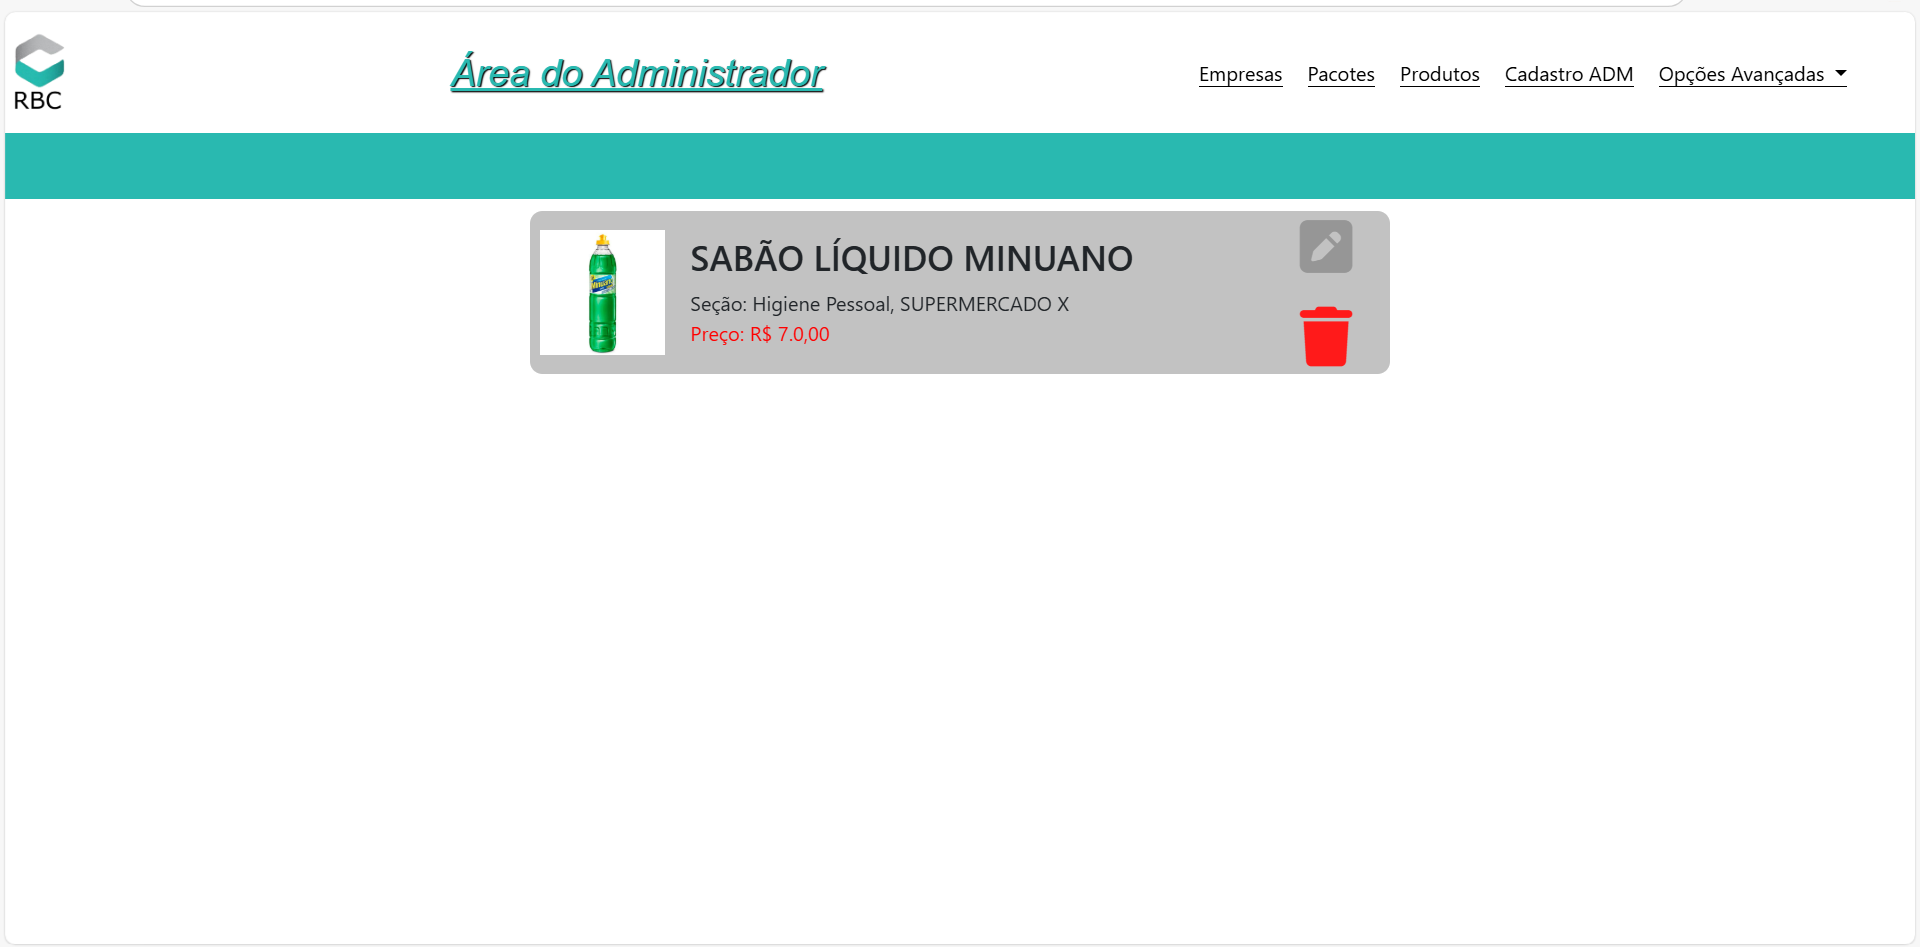
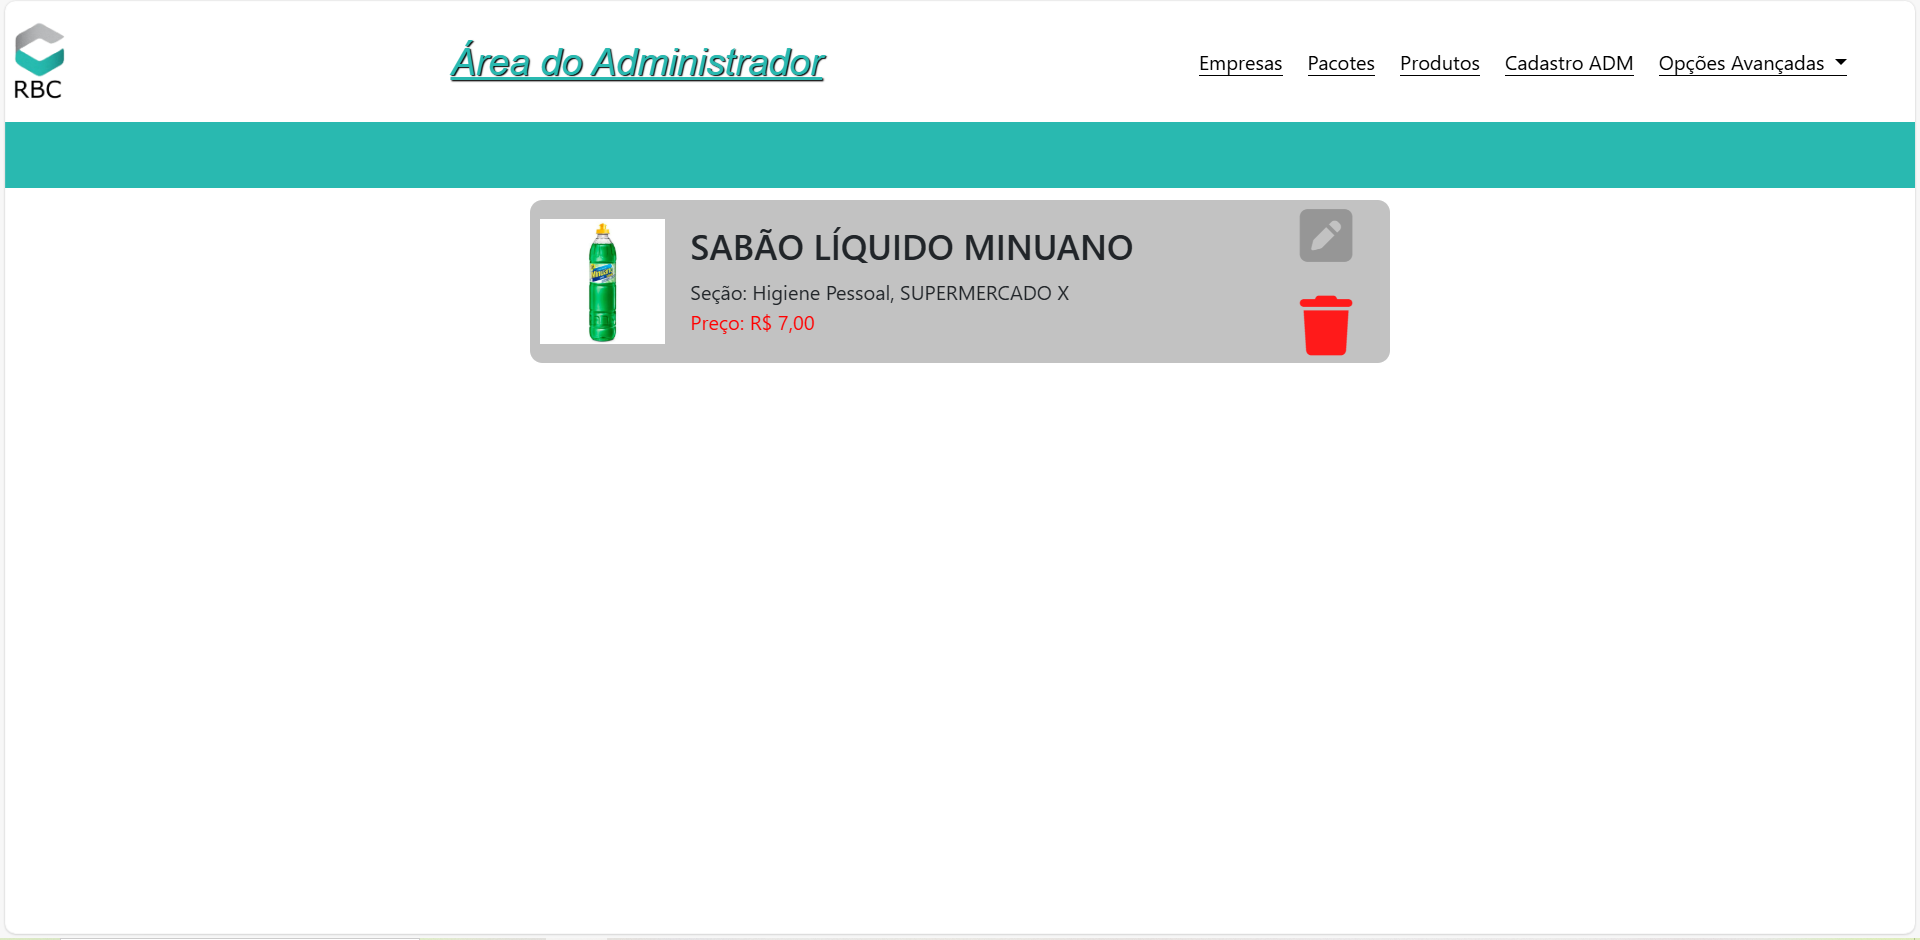
Update final readme

diff --git a/produto/templates/lista_produtos.html b/produto/templates/lista_produtos.html
@@ -14,7 +14,7 @@
                     <div class="dados">
                         <div class="h3">{{ produto.nome_produto }}</div>
                         <div class="sub-text">Seção: {{ produto.nome_secao }}</div>
-                        <div class="sub-text" style="color: red;">Preço: R$ {{ produto.menor_preco }} ~ R$ {{ produto.maior_preco }}</div>
+                        <div class="sub-text" style="color: red;">Preço: {{ produto.preco|floatformat:2|default:"0,00" }} ~ R$ {{ produto.preco|floatformat:2|default:"0,00" }}</div>
                     </div>
                 </div>
             </button>

diff --git a/produto/templates/lista_adm.html b/produto/templates/lista_adm.html
@@ -33,7 +33,7 @@
             <div class="dados">
                 <div class="h3">{{produto.nome_produto}}</div>
                 <div class="sub-text">Seção: {{produto.secao}}, {{produto.empresa}}</div>
-                <div class="sub-text" style="color: red;">Preço: R$ {{produto.preco}},00</div>
+                <div class="sub-text" style="color: red;">Preço: R$ {{ produto.preco|floatformat:2|default:"0,00" }}</div>
             </div>
             <!--Icone normal-->
             <div class="icone">

diff --git a/produto/templates/detalhe_prod.html b/produto/templates/detalhe_prod.html
@@ -12,7 +12,7 @@
             <div class="empresa">
                 <div><b>{{empresa.empresa}}</b></div>
                 <div>Endereço: {{empresa.empresa.rua}}, {{empresa.empresa.bairro}}, {{empresa.empresa.cidade}}</div>
-                <div style="color: red;"><b>Valor:  R$ {{empresa.preco}}</b></div>
+                <div style="color: red;"><b>Valor:  R$ {{ empresa.preco|floatformat:2|default:"0,00" }}</b></div>
             </div>
             {% endfor %}
         </div>

diff --git a/accounts/templates/home.html b/accounts/templates/home.html
@@ -19,7 +19,7 @@
             <div class="titulo">{{prod.nome_produto}}</div>
             <div>{{prod.empresa}}</div>
             <div>{{prod.empresa.rua}}, {{prod.empresa.bairro}}, {{prod.empresa.cidade}}.</div>
-            <p class="text-danger font-weight-bold">Preço: R$ {{prod.preco}},00</p>
+            <p class="text-danger font-weight-bold">Preço: R$ {{ prod.preco|floatformat:2|default:"0,00" }}</p>
           </div>
         </div>
       </div>

diff --git a/produto/views.py b/produto/views.py
@@ -133,8 +133,9 @@ def busca_prod(request):
 
     busca_bruta = request.GET.get('search', '')
     busca_tratada = trata_busca(busca_bruta)
+
     # Filtra os produtos com base na busca
-    '''data['produtos'] = produtos.objects.raw(
+    data['produtos'] = produtos.objects.filter(nome_produto__icontains=busca_tratada).raw(
         "SELECT produto.id, produto.nome_produto, secao.nome_secao, empresa.nome_empresa, "
         "MAX(preco.valor) AS maior_preco, MIN(preco.valor) AS menor_preco, produto.imagem "
         "FROM produto_produtos AS produto "
@@ -143,16 +144,15 @@ def busca_prod(request):
         "INNER JOIN produto_preco AS preco ON produto.preco_id = preco.id "
         "WHERE produto.status = 1 "
         "GROUP BY produto.nome_produto"
-    )'''
-    data['produtos'] = produtos.objects.filter(nome_produto__icontains=busca_tratada).raw("SELECT produto.id, produto.nome_produto, secao.nome_secao, empresa.nome_empresa, "
-        "MAX(preco.valor) AS maior_preco, MIN(preco.valor) AS menor_preco, produto.imagem "
-        "FROM produto_produtos AS produto "
-        "INNER JOIN produto_secao AS secao ON produto.secao_id = secao.id "
-        "INNER JOIN empresa_empresa AS empresa ON produto.empresa_id = empresa.id "
-        "INNER JOIN produto_preco AS preco ON produto.preco_id = preco.id "
-        "WHERE produto.status = 1 "
-        "GROUP BY produto.nome_produto")
+    )
+
+    # Formatar os preços em reais antes de enviar para o template
+    for produto in data['produtos']:
+        produto.maior_preco = f'R$ {produto.maior_preco:.2f}'.replace('.', ',')
+        produto.menor_preco = f'R$ {produto.menor_preco:.2f}'.replace('.', ',')
+
     data['busca'] = busca_bruta
+
     return render(request, '../../produto/templates/lista_produtos.html', data)
 def secoes(request, v):
     data = {}
@@ -184,6 +184,7 @@ def listagem(request):
     data['t1']='s'
     data['produtos']=produtos.objects.filter(status=1).order_by('nome_produto')
     return render(request, '../../produto/templates/lista_adm.html',data)
+
 @login_required(login_url='accounts:login')
 def upd_status(request):
     data={}

diff --git a/pacotes/README.md b/pacotes/README.md
@@ -65,7 +65,54 @@ python manage.py runserver
 ```
 #
 # IMAGENS DO PROJETO
-### Cliente:
+<h1>Cliente:</h1>
+
 
 1. **Pagina 1: Pagina inicial com Carousel dos produtos:**
 <img src="https://github.com/Carlos-Eduardo-Guedes-01/Busca-Produtos/blob/carlos/imagens-do-projeto/01.png?raw=true" alt="Clique aqui" width="1000">
+
+2. **Pagina 2: Página de contato:**
+<img src="https://github.com/Carlos-Eduardo-Guedes-01/Busca-Produtos/blob/carlos/imagens-do-projeto/02.png?raw=true">
+
+3. **Pagina 3: Página de sobre:**
+<img src="https://github.com/Carlos-Eduardo-Guedes-01/Busca-Produtos/blob/carlos/imagens-do-projeto/03.png?raw=true">
+
+4. **Pagina 4: Página de filtro por seção:**
+<img src="https://github.com/Carlos-Eduardo-Guedes-01/Busca-Produtos/blob/carlos/imagens-do-projeto/04.png?raw=true">
+
+5. **Pagina 5: Página de busca por nome do produto:**
+<img src="https://github.com/Carlos-Eduardo-Guedes-01/Busca-Produtos/blob/carlos/imagens-do-projeto/05.png?raw=true">
+
+#
+<h1>Administrador:</h1>
+A página de administrador tem um link específico e um login nesse link por razões de segurança.
+
+1. **Pagina 1: Página de login:**
+<img src="https://github.com/Carlos-Eduardo-Guedes-01/Busca-Produtos/blob/carlos/imagens-do-projeto/adm/01.png?raw=true">
+
+2. **Pagina 2: Página inicial do Administrador onde tem todas as funções de cadastro e caminho par alterações:**
+<img src="https://github.com/Carlos-Eduardo-Guedes-01/Busca-Produtos/blob/carlos/imagens-do-projeto/adm/02.png?raw=true">
+
+3. **Pagina 3: Página que mostra as empresas e funções de editar e remove-las:**
+<img src="https://github.com/Carlos-Eduardo-Guedes-01/Busca-Produtos/blob/carlos/imagens-do-projeto/adm/03.png?raw=true">
+
+4. **Pagina 4: Página que mostra os pacotes de cadastro de produtos e opções de editá-los, este pacote limita a quantidade de produtos e a quantidade no carousel da página inicial:**
+<img src="https://github.com/Carlos-Eduardo-Guedes-01/Busca-Produtos/blob/carlos/imagens-do-projeto/adm/04.png?raw=true">
+
+5. **Pagina 5: Página de listagem dos produtos, assim como os estabelecimentos, tem as opções de editar e remover:**
+<img src="https://github.com/Carlos-Eduardo-Guedes-01/Busca-Produtos/blob/carlos/imagens-do-projeto/adm/05.png?raw=true">
+
+6. **Pagina 6: Página de cadastro de outros administradores:**
+<img src="https://github.com/Carlos-Eduardo-Guedes-01/Busca-Produtos/blob/carlos/imagens-do-projeto/adm/06.png?raw=true">
+
+7. **Pagina 7: Página de cadastro de empresas:**
+<img src="https://github.com/Carlos-Eduardo-Guedes-01/Busca-Produtos/blob/carlos/imagens-do-projeto/adm/07.png?raw=true">
+
+8. **Pagina 8: Cadastro de Produtoes:**
+<img src="https://github.com/Carlos-Eduardo-Guedes-01/Busca-Produtos/blob/carlos/imagens-do-projeto/adm/08.png?raw=true">
+
+9. **Pagina 9: Página de cadastro de pacotes:**
+<img src="https://github.com/Carlos-Eduardo-Guedes-01/Busca-Produtos/blob/carlos/imagens-do-projeto/adm/09.png?raw=true">
+
+
+
